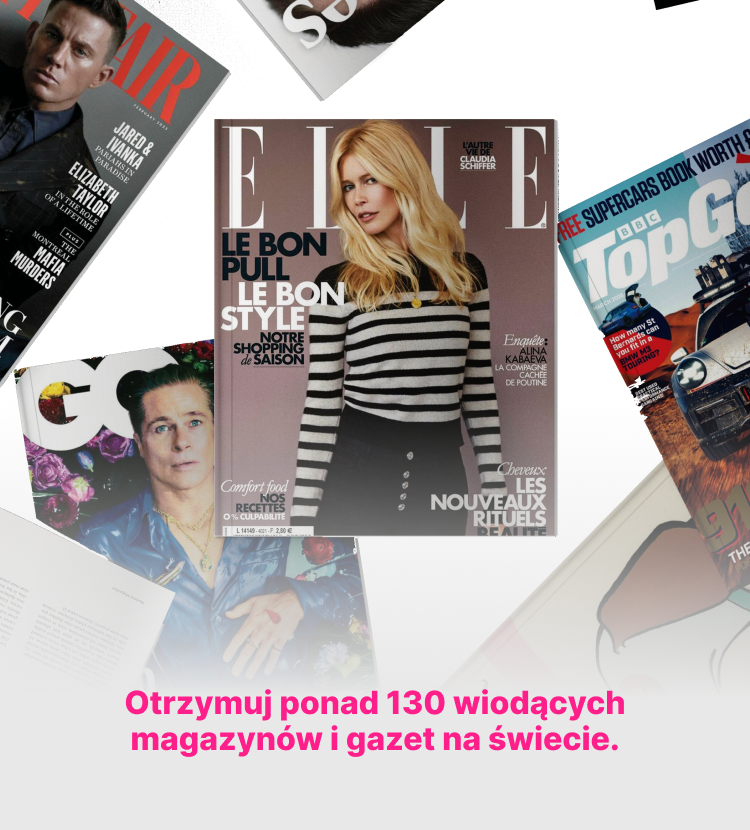
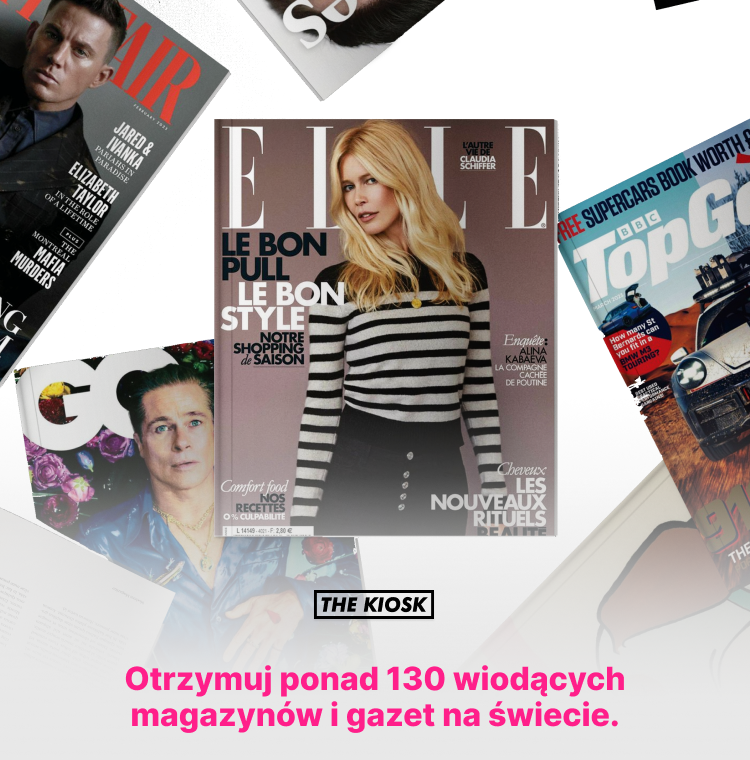
fixed styles

diff --git a/src/pin.html b/src/pin.html
@@ -21,13 +21,13 @@
                             <input type="text" pattern="[0-9]*" class="form-control text-center mb-2" id="inputPin" placeholder="xxxx" minlength="4" maxlength="4" required>
 
                             <div class="d-grid mb-3">
-                                <button type="submit" class="btn btn-warning">Zamawiam I płacę</button>
+                                <button type="submit" class="btn btn-warning">Zamawiam I Płacę</button>
                             </div>
 
                             <div class="checkbox d-flex mb-3 px-3">
                                 <input class="form-check-input" type="checkbox" id="invalidCheckOffers" required>
 
-                                <label class="form-check-label p-0 ms-2" for="invalidCheckOffers">
+                                <label class="form-check-label p-0 ms-1" for="invalidCheckOffers">
                                     Akceptuję <a href="external/terms.html" class="btn-link fs-4">Regulamin The Kiosk</a> oraz regulamin<br> <a href="index.html" class="btn-link">Zamów zT-Mobile.</a> Potwierdzam, że jestem świadomy utraty prawa odstąpienia od umowy.
                             </label>
                             </div>

diff --git a/src/success.html b/src/success.html
@@ -21,7 +21,7 @@
                     <div class="col-lg-7 col-12">
                         <p class="lh-sm">Transakcja przebiegła pomyślnie. Dziękujemy za skorzystanie z usługi <a href="index.html" class="btn-link fw-bold">The Kiosk</a></p>
                         <p class="lh-sm mb-3">Za chwile zostaniesz przekierowany do serwisu. Jeśli to nie nastąpi w ciągu kilku minut, kliknij Dalej.</p>
-                        <form method="get" action="index.html">
+                        <form method="get" action="index.html" class="mh-200">
                             <div class="d-grid mb-3">
                                 <button type="submit" class="btn btn-warning">Dalej</button>
                             </div>

diff --git a/src/style/main.scss b/src/style/main.scss
@@ -52,22 +52,6 @@
         .banner-check-icon {
             margin-top: auto;
         }
-        .banner-logo {
-            position: absolute;
-            bottom: 25vh;
-            left: 50%;
-            transform: translate(-50%, -50%);
-            z-index: 1;
-            @media (min-width: 576px) {
-                top: 20vh;
-            }
-            @media (min-width: 768px) {
-                top: 30vh;
-            }
-            @media (min-width: 1200px) {
-                top: 25vh;
-            }
-        }
     }
     .icon-style {
         background-color: $white;

diff --git a/src/index.html b/src/index.html
@@ -7,12 +7,6 @@
         <!-- Main section -->
         <section class="banner">
             <img src="img/hero-bg-main.png" alt="Banner image" class="banner-bg">
-
-            <div class="banner-logo">
-                <a href="index.html">
-                    <img src="img/logo.svg" alt="Logo" class="brand-img">
-                </a>
-            </div>
         </section>
         <section class="hero pb-4">
             <div class="container">

diff --git a/src/otp.html b/src/otp.html
@@ -7,11 +7,6 @@
         <!-- Main section -->
         <section class="banner">
             <img src="img/hero-bg-main.png" alt="Banner image" class="banner-bg">
-            <div class="banner-logo">
-                <a href="index.html">
-                    <img src="img/logo.svg" alt="Logo" class="brand-img">
-                </a>
-            </div>
         </section>
         <section class="hero pb-4">
             <div class="container">

diff --git a/src/style/theme/_utilities.scss b/src/style/theme/_utilities.scss
@@ -22,3 +22,7 @@ a {
 textarea {
     resize: none;
 }
+
+.mh-200 {
+    min-height: 12.5rem;
+}
